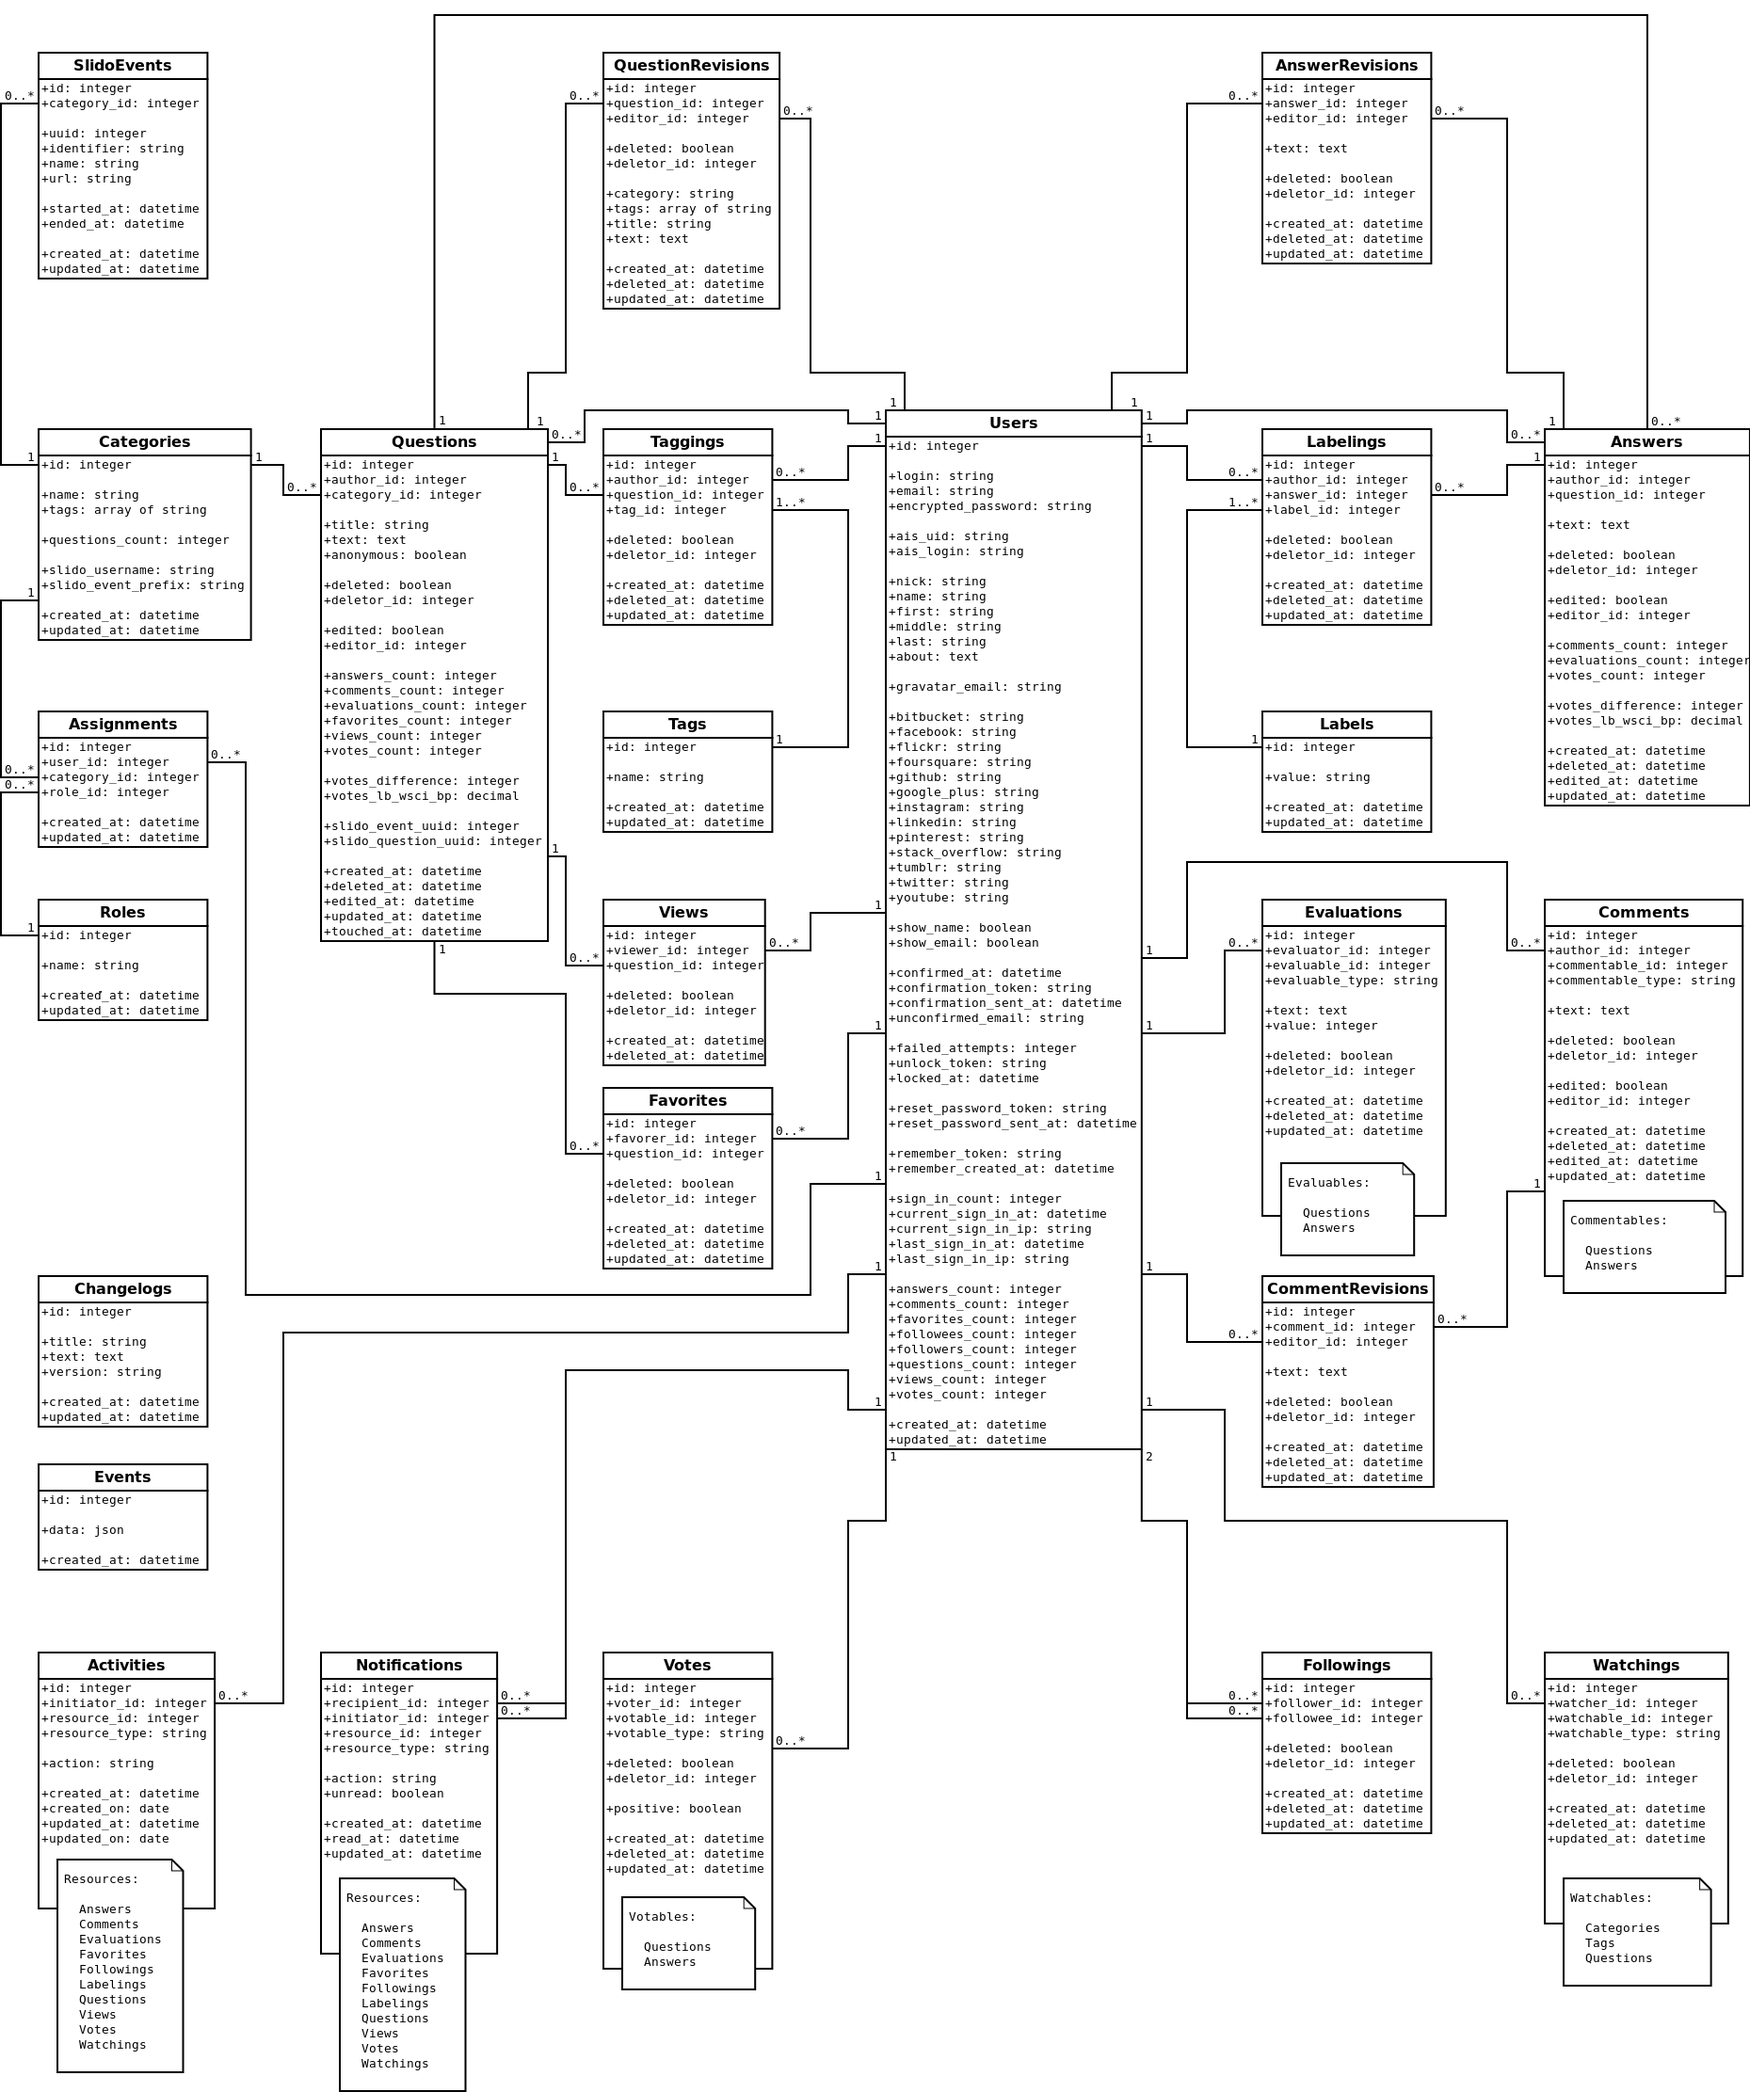
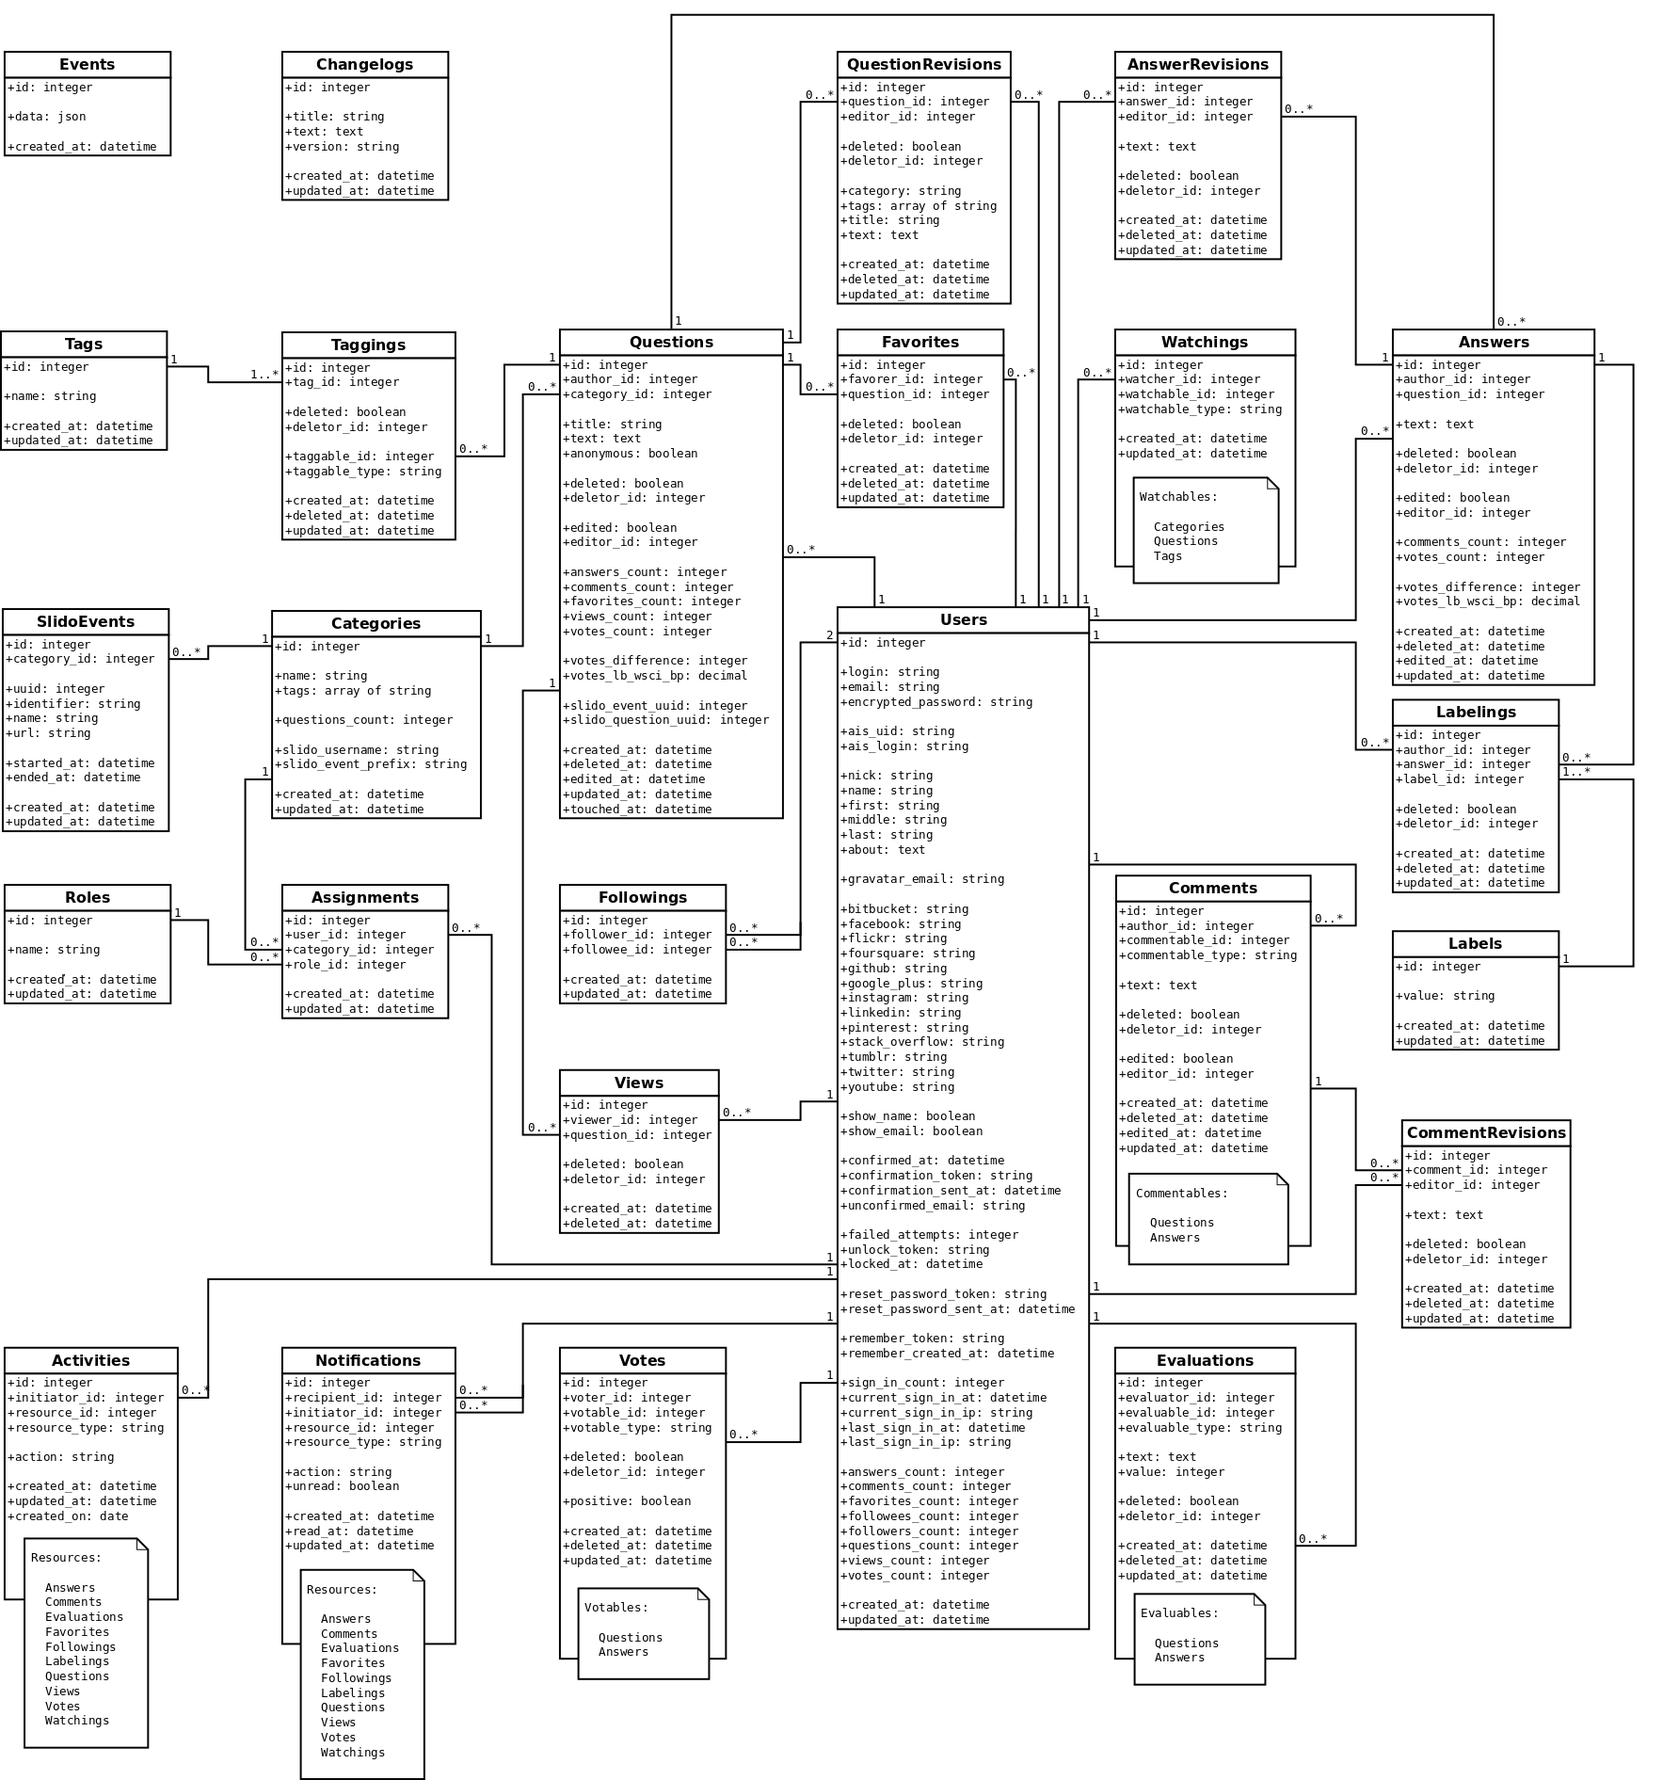
Following and Watching are Notifiable

diff --git a/app/models/following.rb b/app/models/following.rb
@@ -1,4 +1,6 @@
 class Following < ActiveRecord::Base
+  include Notifiable
+
   belongs_to :follower, class_name: :User, counter_cache: :followees_count
   belongs_to :followee, class_name: :User, counter_cache: :followers_count
 

diff --git a/app/models/watching.rb b/app/models/watching.rb
@@ -1,4 +1,6 @@
 class Watching < ActiveRecord::Base
+  include Notifiable
+
   belongs_to :watcher, class_name: :User
 
   #TODO(zbell) rm this shit when on rails 4.1.0, see deletable.rb
